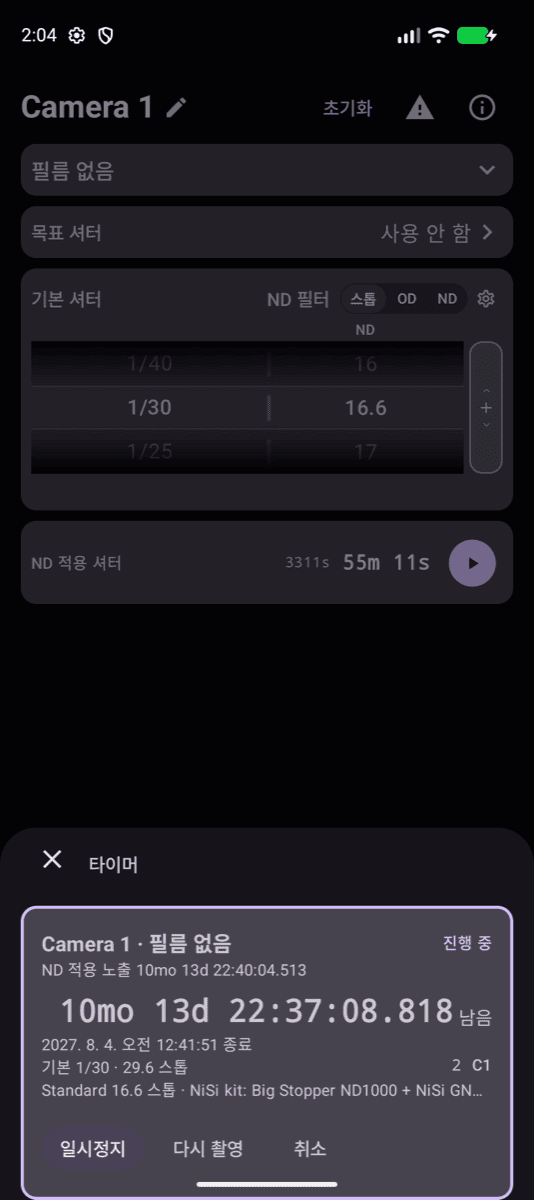
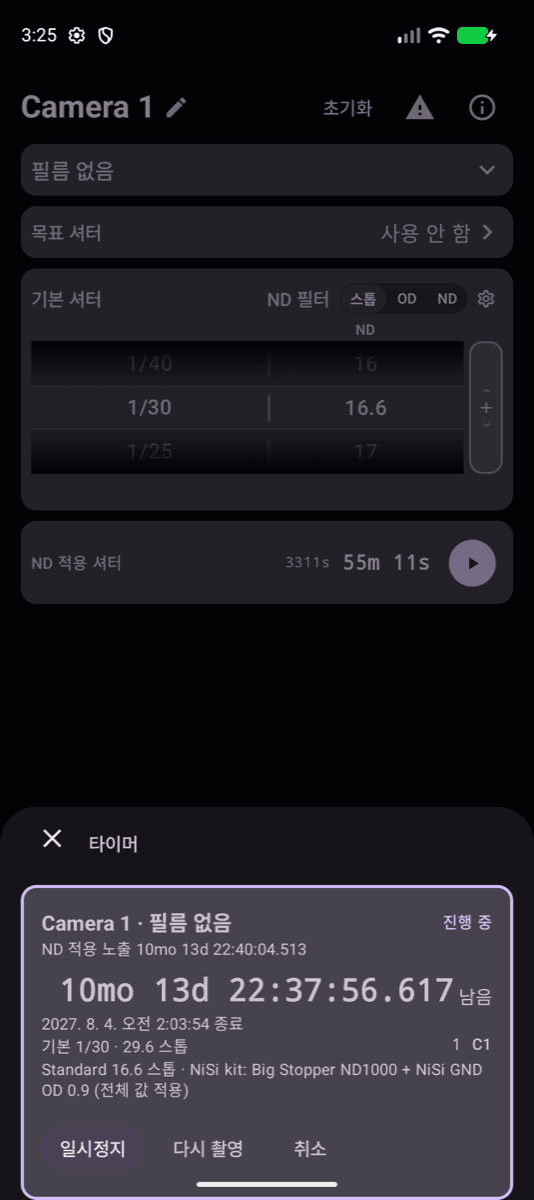
Reshoot the timer card after the wrap fix
The five timer-card frames were shot before the reference line was
allowed a second line, so they still showed the truncated fragment the
fix removes. All five retaken from one seeding against `ed233a07`.

The secondary line now renders complete across two lines with no
ellipsis, breaking before `OD 0.9`; the node grew from 46 px to 88 px
and the card with it. The primary line stays `기본 1/30 · 29.6 스톱`.

The scenario 26 sequence also loses the incidental difference flagged
last round: its shot-sequence badge reads `1` again, matching iOS,
because the fixture was rebuilt from empty.

PTIMER-221 Support My Filters stacking from user-defined filter
           inventory

Changed region(s): [[0.03, 0.6783, 0.9588, 0.925], [0.0899, 0.0, 0.1199, 0.0308]]

diff --git a/docs/review-artifacts/PTIMER-221/android-ios/COMPARISON.md b/docs/review-artifacts/PTIMER-221/android-ios/COMPARISON.md
@@ -1,7 +1,8 @@
 # PTIMER-221 iOS / Android comparison matrix
 
 iOS `main@64565f73` on iPhone 17 (`9144ED16`), light, ko-KR.
-Android `feature/PTIMER-221-android` at `496a4ec4` / `120bb559` on `emulator-5554`
+Android `feature/PTIMER-221-android` at `496a4ec4` / `120bb559` / `ed233a07`
+on `emulator-5554`
 (Pixel_10, API 37), dark (hard-coded), ko-KR.
 Provenance and method: see [README.md](README.md).
 
@@ -45,7 +46,7 @@ so in place.
 | 22 at 30 stops, Record-only still addable | **Not reached.** iOS refuses every add once the total is 30, and the state could not be built inside the 4 s idle interval. | **Allowed.** At `합계 30 스톱 · 최대` with two wheels and an unmounted `Soft GND`, `＋` created a third `● EMPTY` wheel: present at +0.3 s and +3.0 s, gone at +4.5 s — removed by the ordinary idle interval, not immediately. Total unchanged throughout. | FILTER-PLUS-005, FILTER-STACK-006 | **Android correct.** FILTER-PLUS-005 requires a Record-only item to stay addable at a 30-stop total, and FILTER-STACK-006 gives the resulting Empty wheel the normal idle interval. **Android-only evidence — not paired parity.** If iOS refuses this exact case it is a second iOS defect; the iOS pass could not reach the state to confirm. | `22-cap-record-only-addable/` |
 | 23 camera switch | Camera 2 has its own stack and its own remembered Plus source; swiping back restores camera 1 exactly. | Camera 2 opened Standard-only and its `＋` added Standard while camera 1 remembered NiSi; swiping back restored camera 1 byte-identical. | FILTER-PERSIST-002, FILTER-PLUS-004 | **Same.** DIFFERENT SEED (different stacks) but the behavior claim is per-camera independence, which both show. | `23-camera-switch/` |
 | 24 relaunch | Identical stack, order, GND mode, total, Plus source. Nothing re-sorted or reset. | Same after `am force-stop` and relaunch. | FILTER-PERSIST-001, FILTER-PERSIST-002 | **Same.** DIFFERENT SEED. | `24-after-relaunch/` |
-| 25 timer reference | Primary `기본 1/30s · 29.6 스톱`; secondary `Standard 16.6 스톱 · NiSi kit: Big Stopper ND1000 + NiSi GND OD 0.9 (전체 값 적용)`. Sheet close control top-right. | Secondary grouped the same way: `NiSi: Big Stopper ND1000 + Soft GND OD 0.9 (기록만)`. Primary `기본 5s · 10 stops` — **the noun `stops` stays English inside a Korean line.** Close control top-left. | FILTER-PERSIST-003, FILTER-A11Y-003 | **Two Android defects found here, both FIXED.** The English `stops` in a Korean line came from a core formatter with no resources (`69702bf4`). Then the total itself read `기본 1/30 · 29 2/3 스톱` — the ladder's reserved third-stop path misstating 29.6 — while Android's own shooting screen said `합계 29.6 스톱`; a mixed stack's canonical total is a plain decimal (`120bb559`). Both surfaces now read `29.6 스톱`, and so does the timer card in OD and ND notation, since a mixed stack's total does not follow the global notation. Remaining: iOS writes the base shutter as `1/30s`, Android as `1/30`, and Android truncates the reference line to one line where iOS wraps to two — **equivalent platform presentation** and **unresolved** respectively. Close-control side is Material. SAME SEED. | `25-timer-reference/` |
+| 25 timer reference | Primary `기본 1/30s · 29.6 스톱`; secondary `Standard 16.6 스톱 · NiSi kit: Big Stopper ND1000 + NiSi GND OD 0.9 (전체 값 적용)`. Sheet close control top-right. | Secondary grouped the same way: `NiSi: Big Stopper ND1000 + Soft GND OD 0.9 (기록만)`. Primary `기본 5s · 10 stops` — **the noun `stops` stays English inside a Korean line.** Close control top-left. | FILTER-PERSIST-003, FILTER-A11Y-003 | **Two Android defects found here, both FIXED.** The English `stops` in a Korean line came from a core formatter with no resources (`69702bf4`). Then the total itself read `기본 1/30 · 29 2/3 스톱` — the ladder's reserved third-stop path misstating 29.6 — while Android's own shooting screen said `합계 29.6 스톱`; a mixed stack's canonical total is a plain decimal (`120bb559`). Both surfaces now read `29.6 스톱`, and so does the timer card in OD and ND notation, since a mixed stack's total does not follow the global notation. A third, also found here and also fixed (`ed233a07`): Android clamped the reference line to one line, rendering `… Big Stopper N…` where iOS wraps the same string onto two. It now wraps too — the node grew from 46 px to 88 px and the string is complete with no ellipsis. Remaining: iOS writes the base shutter as `1/30s`, Android as `1/30` — **equivalent platform presentation**. Close-control side is Material. SAME SEED. | `25-timer-reference/` |
 | 26 rename then delete the set behind a running timer | Camera drops the wheels, Plus falls back to Standard, and the timer entry is byte-identical including the **pre-rename** set name. Delete dialog names the targeted set. | Identical: the live stack and status followed the rename, while the running timer still read `NiSi: Big Stopper ND1000 + Soft GND OD 0.9 (기록만)`; after delete the stack collapsed to Standard and the timer entry was still byte-identical, and stayed so after cancelling into 기록. Dialog body identical except the camera name. | FILTER-PERSIST-003 | **Same — the contract's immutability guarantee holds on both.** SAME SEED after reshoot, and all four frames now come from one seeding and one build, so the total reads `29.6` unchanged across rename and delete: nothing in the sequence suggests either operation touched it. The dialog body still leaks the default camera name as the English `Camera 1` in a Korean build (iOS `카메라 1`) — **pre-existing, not this branch**: `CameraSlotId.defaultDisplayName` hardcodes it at `4914d315` (2026-06-25), an ancestor of the baseline, and the core module has no resources. What is new is the exposure: a PTIMER-221 string interpolates that English name into Korean prose. Reported, not fixed here. | `26-timer-reference-after-delete/` |
 | 27 wheel accessibility | One adjustable element per wheel. Stable label `필터 %lld/%lld, %@`; separate value `<item>, <type/mode>, <contribution>, 합계 <T>`. No app-authored hint. | Same split: `contentDescription` = `필터 1/2, NiSi`; `stateDescription` = `<item>, <type[, mode]>, <N 스톱>[, <refusal>], 합계 <T> 스톱`; role adjustable (`ProgressBarRangeInfo`). | FILTER-A11Y-001 | **Same structurally.** Neither platform's value was *heard* — iOS read from source, Android's `stateDescription` is not serialised by `uiautomator` and was read from source. Stated as a limitation, not as verified speech. | `27-a11y-wheel/` |
 | 28 status region accessibility | Leading text and Total are two separate elements, so Total is reachable directly rather than behind the summary. | Same: two sibling nodes, the leading one carrying the **complete untruncated** text as its content description while the visible text truncates. | FILTER-A11Y-005, FILTER-STACK-008 | **Same.** Reshot after the alignment fix: two sibling nodes at 63-841 px and 857-1017 px, the leading one carrying the complete untruncated text as its content description while the visible text truncates. SAME SEED. | `28-a11y-status/` |

diff --git a/docs/review-artifacts/PTIMER-221/android-ios/README.md b/docs/review-artifacts/PTIMER-221/android-ios/README.md
@@ -38,14 +38,18 @@ rather than averaged:
 | build | frames |
 | --- | --- |
 | `496a4ec4` | `09`, `13`, `13-b`, `15`, `16`, `17`, `18`, `19`, `19-b`, `21`, `28` |
-| `120bb559` | `07`, `25`, `26`, `26-b`, `26-c`, `26-d` |
+| `120bb559` | `07` |
+| `ed233a07` | `25`, `26`, `26-b`, `26-c`, `26-d` |
 | `79b339c9` | every scenario not listed above, unchanged from the first pass |
 
-`120bb559` changes only how a mixed stack's total is formatted on the
-timer card, which is why exactly the timer-card frames were reshot
-against it and the rest stay valid. `07` was additionally verified on
-`496a4ec4` before that commit landed — same keypad, same input type,
-same focus behaviour — so it is cross-checked on both.
+Each later commit touches only the timer card, which is why exactly the
+timer-card frames were reshot against it and the rest stay valid:
+`120bb559` changed how a mixed stack's total is formatted, `ed233a07`
+let the reference line wrap. The five `ed233a07` frames come from one
+seeding, so the scenario 26 sequence reads as one run. `07` was
+additionally verified on `496a4ec4` before `120bb559` landed — same
+keypad, same input type, same focus behaviour — so it is cross-checked
+on both.
 
 Superseded frames are not in the working tree but are not lost: the
 first-pass images are in this repository's history, at the commit that
@@ -54,13 +58,6 @@ showed the wrong thing — `07` captured the item editor's autofocused
 name field instead of a focused choice field, `13` was taken after the
 status region's linger had expired, and the rest were driven to
 different set names, totals and stack compositions than iOS.
-
-### One incidental difference in the scenario 26 frames
-
-Their shot-sequence badge reads `2` where the iOS references read `1`.
-The Android app's data was wiped by a reinstall between passes, so that
-camera's counter had already advanced. It is consistent across all four
-frames of the sequence and is unrelated to what they demonstrate.
 
 Because the two platforms render in different appearances, **no colour
 comparison in the matrix is a measured hue match** — colour differences
